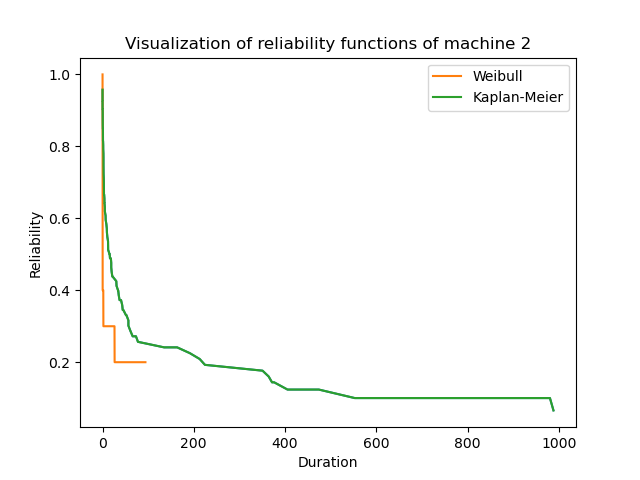
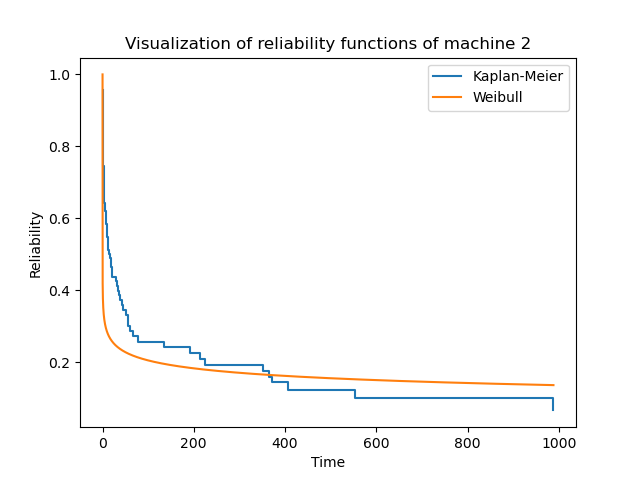
weibull curve on max duration + age maintenance

diff --git a/s4917340-Tool.py b/s4917340-Tool.py
@@ -100,11 +100,11 @@ def fit_weibull_distribution(prepared_data : pd.DataFrame):
             censored = observation_row['Censored']
 
             if censored == 'No':
-                #log (f(x))
+                #log (f(x)) density function : likelihood of failure at time t (failure) 
                 fx = (k / l) * (duration / l) ** (k-1) * math.exp(-(duration/l)**k)
                 log_likelihood = np.log(fx)
             else:
-                # log (R(x)) = log (1-F(x))
+                # log (R(x)) = log (1-F(x)) probability of survival before time t (PM)
                 Rx = math.exp(-(duration/l)**k)
                 log_likelihood = np.log(Rx)
             df_weibull.loc[row_index, column_name] = log_likelihood
@@ -115,17 +115,16 @@ def fit_weibull_distribution(prepared_data : pd.DataFrame):
     # sum the loglikelihood of each observation per row
     df_weibull['Loglikelihood_sum'] = df_weibull[observation_columns].sum(axis=1)
     print(df_weibull)
-
     # get the optimal Lambda and Kappa based on the max Loglikelihood sum
     max_loglikelihood_sum = df_weibull['Loglikelihood_sum'].max() 
     best_l_k = df_weibull[df_weibull['Loglikelihood_sum'] == max_loglikelihood_sum][['Lambda', 'Kappa']]
     return best_l_k['Lambda'].values[0], best_l_k['Kappa'].values[0]
 
-def create_weibull_curve_data(prepared_data, lamb_val, kap_val):
+def create_weibull_curve_data(prepared_data : pd.DataFrame, lamb_val, kap_val):
     # Create an new dataframe with t durations and reliability R_t
     weibull_data = pd.DataFrame(columns=['t', 'R_t'])
     # Create an range of durations from the 0 to length of the prepared data 
-    weibull_data['t'] = np.arange(0, len(prepared_data), 0.1)
+    weibull_data['t'] = np.arange(0, prepared_data['Duration'].max(), 0.01)
     # Reliability distribution function. The opposite of F(t), the probability of survival until t
     weibull_data['R_t'] = np.exp(-(weibull_data['t']/lamb_val)**kap_val) 
     return weibull_data
@@ -139,7 +138,46 @@ def visualization(KM_data : pd.DataFrame, weibull_data : pd.DataFrame, machine_n
     ax.set_ylabel('Reliability')
     ax.legend()
     plt.savefig(os.path.join(plot_path, f'{student_nr}-Machine-{machine_name}-Reliability.png'))
+    plt.close()
 
+# Create a plot of the cost rates
+def plot_cost_rates(maintenance_data : pd.DataFrame, machine_name):
+    fig, ax = plt.subplots()
+    x_min, x_max = 1, round(maintenance_data['t'].max())
+
+    ax.set_title(f'Maintenance age impact on cost for machine {machine_name}')
+    ax.plot(maintenance_data['t'], maintenance_data['cost_rate'])
+    ax.set_xlabel('Time')
+    ax.set_ylabel('Cost')
+    plt.savefig(os.path.join(plot_path, f'{student_nr}-Machine-{machine_name}-Costs.png'))
+
+def create_cost_data(prepared_data : pd.DataFrame, l, k, PM_cost, CM_cost, machine_name):
+    # 1. Define a range of maintenance ages 
+    maintenance_data = pd.DataFrame()
+    maintenance_data['t'] = np.arange(0, prepared_data['Duration'].max(), 0.01)
+    # 2. Calculate the values F(t) and R(t) for each maintenance age
+    maintenance_data['F_t'] = 1 - np.exp(-(maintenance_data['t']/l)**k) 
+    maintenance_data['R_t'] = np.exp(-(maintenance_data['t']/l)**k) 
+    # 3. Calculate the mean cost per cycle (MCPC) for each maintenance age 
+    maintenance_data['MCPC'] = CM_cost * maintenance_data['F_t'] + PM_cost * maintenance_data['R_t']
+    # 4. Calculate the mean cycle length (MCL) by approximating the area under curve using Riemann sum
+    delta = 0.01
+    t = maintenance_data['t'].values
+    R_t = maintenance_data['R_t'].values
+    riemann_sum = 0
+    for i in range(len(t)):
+        riemann_sum += R_t[i] * delta
+
+    # 5. Calculate the cost rate for each maintenance age
+    maintenance_data['cost_rate'] = maintenance_data['MCPC'] / riemann_sum
+    print(maintenance_data)
+
+    # 6. Create a plot of cost rates
+    plot_cost_rates(maintenance_data, machine_name)
+
+    # 7. determine the optimal maintenance age and the corresponding cost rate 
+    optimal = maintenance_data[maintenance_data['cost_rate'] == maintenance_data['cost_rate'].min()]
+    return optimal['t'].values[0], optimal['cost_rate'].values[0]
 
 def run_analysis():
     machine_name = 1
@@ -150,6 +188,7 @@ def run_analysis():
     MTBF_KM = meantimebetweenfailures_KM(KM_data)
 
     # Weibull fitting
+    print(prepared_data)
     lamb_val, kap_val = fit_weibull_distribution(prepared_data)
     print(f'\nBest Lambda & Kappa values for machine {machine_name} are {lamb_val} and {kap_val}')
 
@@ -160,8 +199,14 @@ def run_analysis():
 
     # Weibull data
     weibull_data = create_weibull_curve_data(prepared_data, lamb_val, kap_val)
-    weibull_data_to_plot = weibull_data[weibull_data['t'] <= KM_data['Duration'].max()]
-    visualization(KM_data, weibull_data_to_plot, machine_name)
+
+    visualization(KM_data, weibull_data, machine_name)
+
+    # Age-based maintenance
+    PM_cost = 5
+    CM_cost = 20
+    best_age, best_cost_rate = create_cost_data(prepared_data, lamb_val, kap_val, PM_cost, CM_cost, machine_name)
+    print(best_age, best_cost_rate)
     return
 
 run_analysis()
